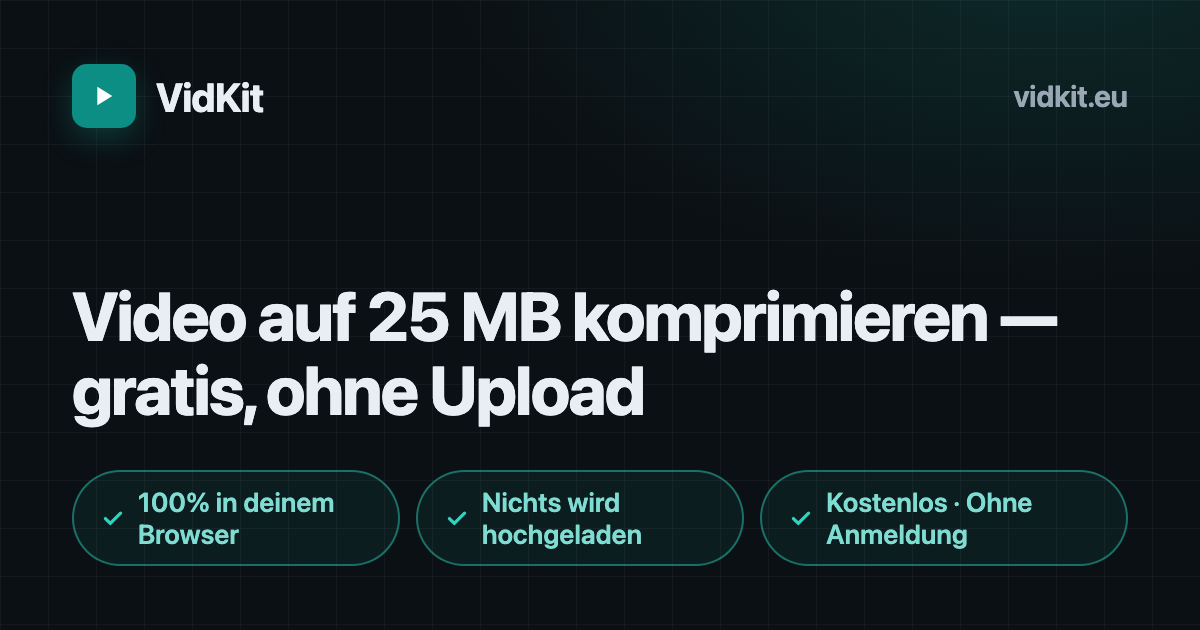
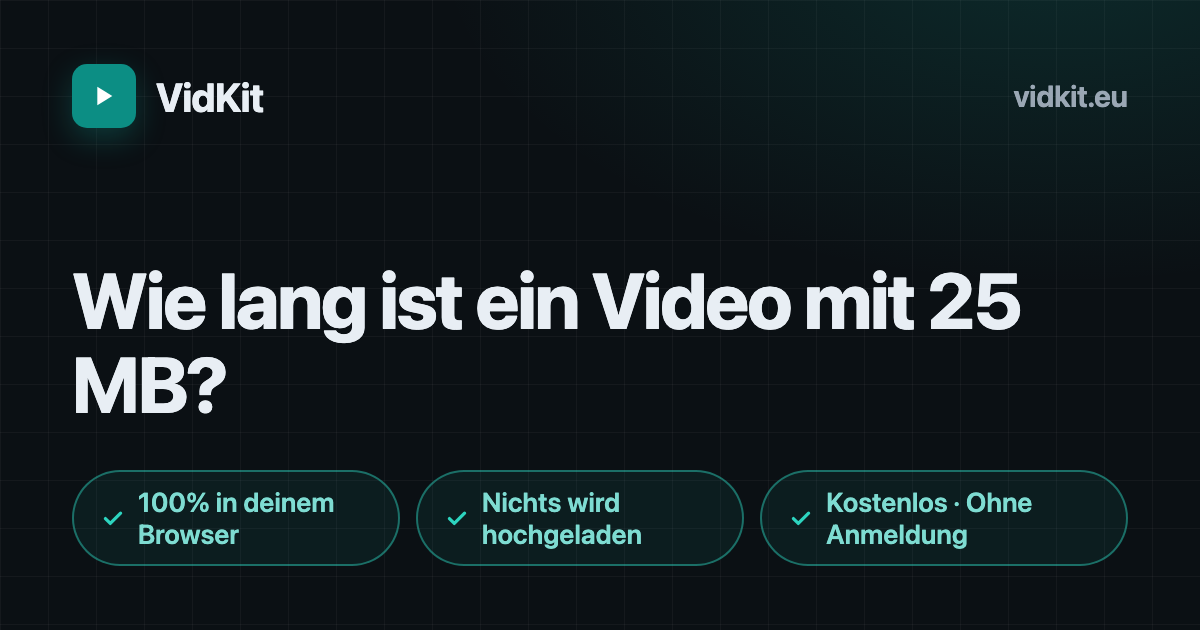
Answer "how long is 25 MB" on the 25 MB compressor page
Search Console shows /compress-video-to-25mb/ taking 205 impressions and
zero clicks — 44% of the site's impressions at 0% CTR. It ranks for
informational queries (how many seconds is a 25mb video, how long is
25mb, how much is 25mb) and answers them with a compression tool, so
nobody clicks.

The page now answers the question before pitching the tool. Title and
description lead with the answer, and the hero repeats it above the
fold. A new "How long is 25 MB of video?" section carries a table of
length against picture quality, placed after the widget so someone who
came to compress still gets the tool first. Two FAQs match the observed
queries verbatim and flow into the existing FAQPage schema, now seven
questions.

Every figure comes from the compressor's own buildPlan() rather than an
estimate, so the table states what the tool actually produces and can't
drift without the planner changing.

That also caught a factual error in the old copy, present in all seven
locales: it claimed a 5-minute clip "lands around 720p". The planner
produces 720x404 — 720 wide, roughly 400 lines tall, nothing like 720p.
Replaced with a description of what actually happens, which is that the
picture stays sharp and gets physically smaller. The real ceiling is
20.7 minutes at 25 MB for 1080p30 with audio, so the copy says "about 20
minutes"; 25 was the number I would otherwise have guessed.

All seven locales updated together — the shared template means a missing
[…]

Changed region(s): [[0.0617, 0.4222, 0.8942, 0.6937]]

diff --git a/templates/cv25.html b/templates/cv25.html
@@ -15,6 +15,32 @@
     </div>
   </div>
 
+  <!-- Answers the informational query this page ranks for ("how long is 25 MB
+       of video?") before pitching the tool. Figures come from the compressor's
+       own planner, not estimates — see the cv25 answer.* keys. -->
+  <section class="section">
+    <div class="container container--prose prose">
+      <h2>{{answer.h2}}</h2>
+      <p>{{answer.lead}}</p>
+      <div class="table-scroll">
+        <table class="ref-table">
+          <caption>{{answer.caption}}</caption>
+          <thead>
+            <tr><th>{{answer.th.length}}</th><th>{{answer.th.result}}</th></tr>
+          </thead>
+          <tbody>
+            <tr><td>{{answer.r1.len}}</td><td>{{answer.r1.q}}</td></tr>
+            <tr><td>{{answer.r2.len}}</td><td>{{answer.r2.q}}</td></tr>
+            <tr><td>{{answer.r3.len}}</td><td>{{answer.r3.q}}</td></tr>
+            <tr><td>{{answer.r4.len}}</td><td>{{answer.r4.q}}</td></tr>
+            <tr><td>{{answer.r5.len}}</td><td>{{answer.r5.q}}</td></tr>
+          </tbody>
+        </table>
+      </div>
+      <p>{{answer.after}}</p>
+    </div>
+  </section>
+
   <section class="section">
     <div class="container container--prose prose">
       <h2>{{prose.h2}}</h2>
@@ -46,6 +72,14 @@
         <details class="faq-item">
           <summary>{{faq.q5}}<span class="chevron" aria-hidden="true"><svg viewBox="0 0 24 24" fill="none"><path d="M12 6v12M6 12h12" stroke="currentColor" stroke-width="2" stroke-linecap="round"/></svg></span></summary>
           <div>{{faq.a5}}</div>
+        </details>
+        <details class="faq-item">
+          <summary>{{faq.q6}}<span class="chevron" aria-hidden="true"><svg viewBox="0 0 24 24" fill="none"><path d="M12 6v12M6 12h12" stroke="currentColor" stroke-width="2" stroke-linecap="round"/></svg></span></summary>
+          <div>{{faq.a6}}</div>
+        </details>
+        <details class="faq-item">
+          <summary>{{faq.q7}}<span class="chevron" aria-hidden="true"><svg viewBox="0 0 24 24" fill="none"><path d="M12 6v12M6 12h12" stroke="currentColor" stroke-width="2" stroke-linecap="round"/></svg></span></summary>
+          <div>{{faq.a7}}</div>
         </details>
       </div>
     </div>
